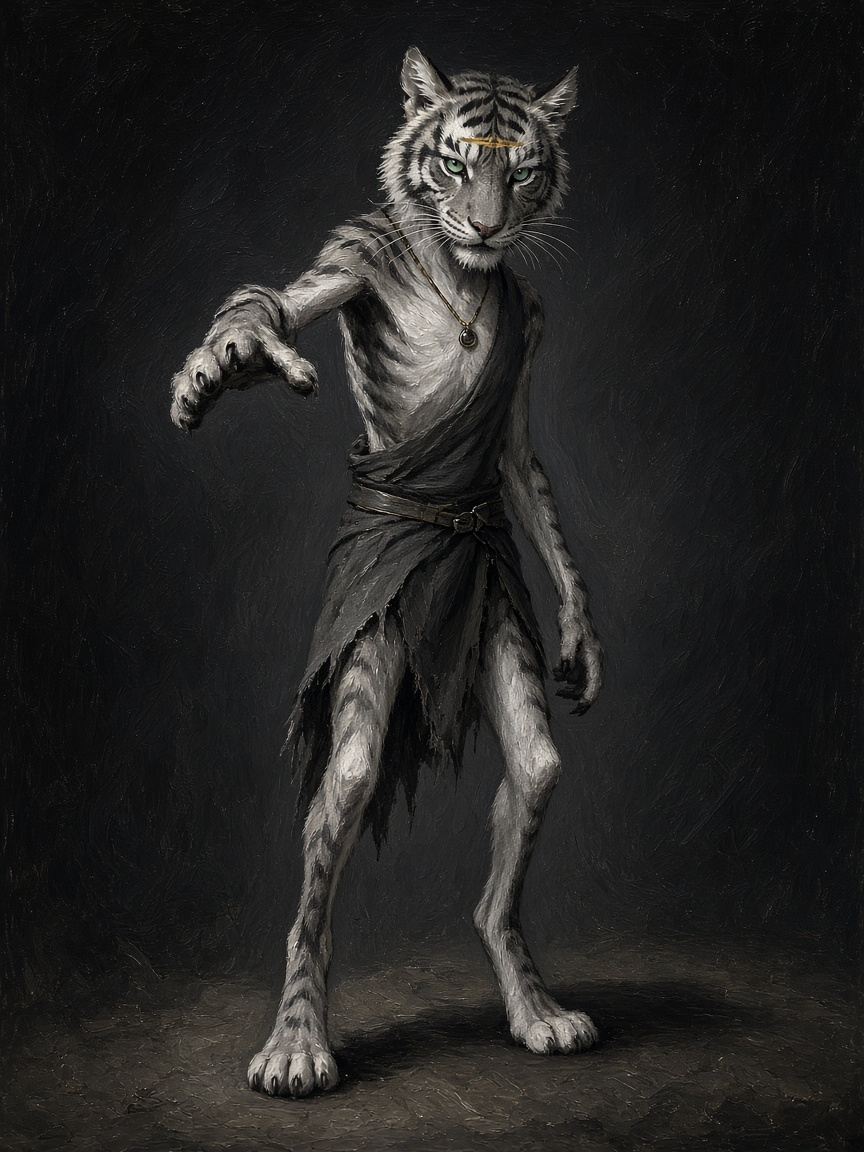
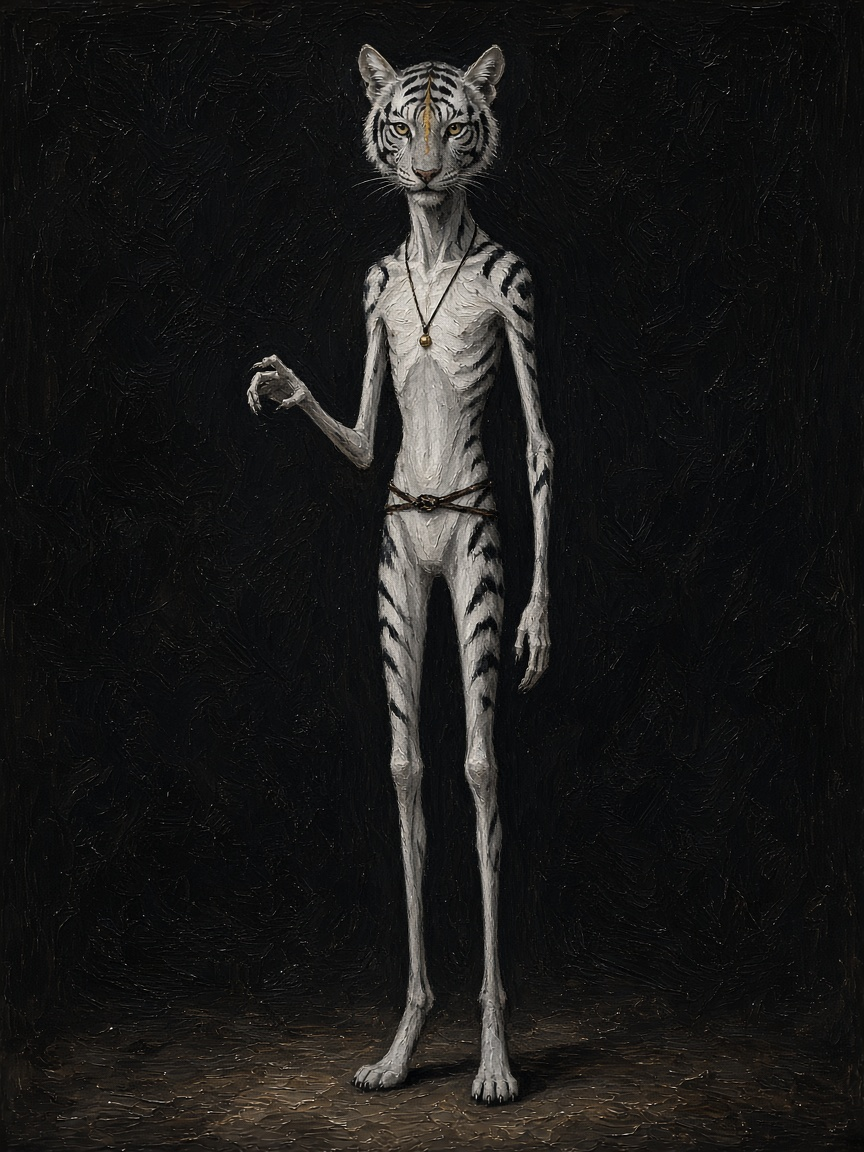
Redraw the tier 3 tiger proof lean.
The first tiger read as bulky. This pass keeps the pale eyes and the single gold brow stroke, with a narrow waist and no extra colors.

Changed region(s): [[0.0938, 0.0312, 1.0, 1.0], [0.0312, 0.9062, 0.0938, 1.0], [0.875, 0.9062, 0.9375, 0.9688]]

diff --git a/BRIEF.md b/BRIEF.md
@@ -28,7 +28,7 @@ The potion is the engine. Color arrives in this order, slowly: the amulet catche
 
 Clothing and the belt are incorporated. They are silent details, not loud ones.
 
-Tigers are thin and lean, with no fat, in a Star Wars Jedi or wizard pose, on the stark side, with no extra colors. The tiger proof is tier 3, Pale Lock eyes, one gold brow tick, gold only as the faint amulet.
+Tigers are thin and lean, with no fat, in a Star Wars Jedi or wizard pose, on the stark side, with no extra colors. The first tier 3 proof read as bulky. It was redrawn once after that read. The file in `proofs/art/03.png` is the lean pass: narrow waist, Pale Lock eyes, one gold brow tick, gold only as the faint amulet. Do not draw the tiger again unless the approver asks.
 
 Foxes are the pristine mascot, on the colorful side, full body visible, nothing cropped. All characters are centered, eyes locked on the viewer, feet on solid ground, in a dynamic Star Wars figure stance.
 
